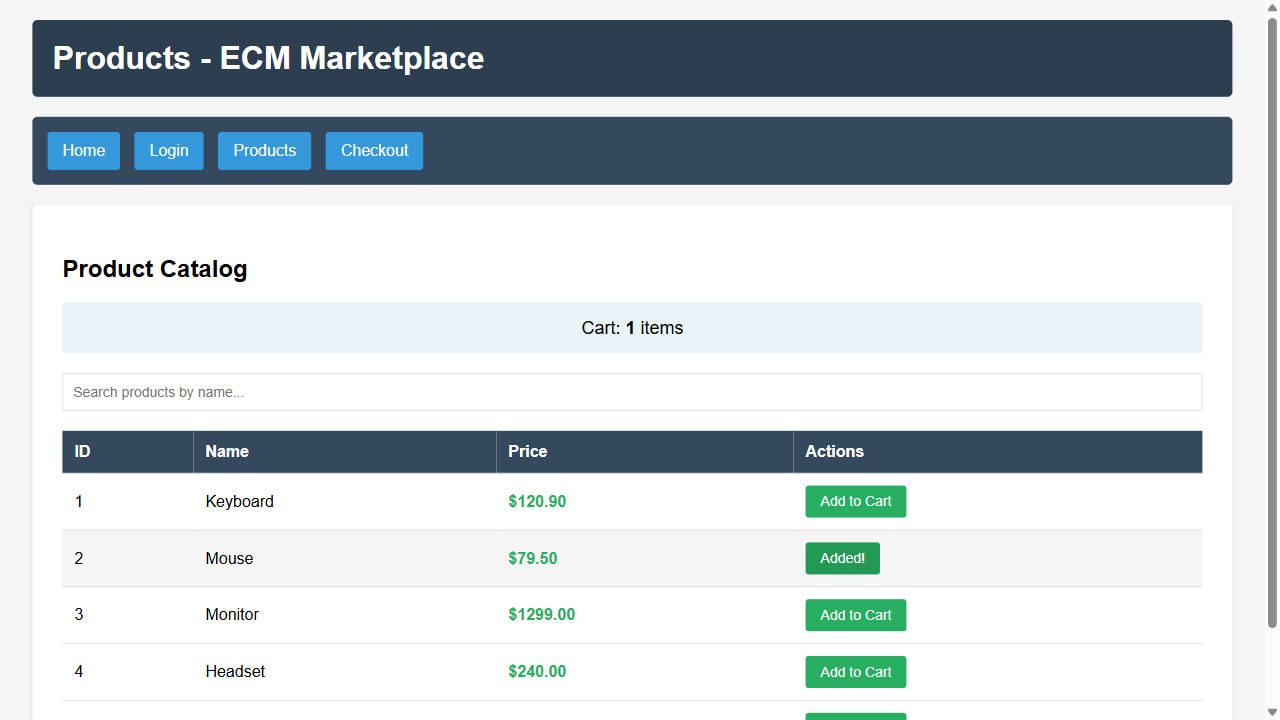
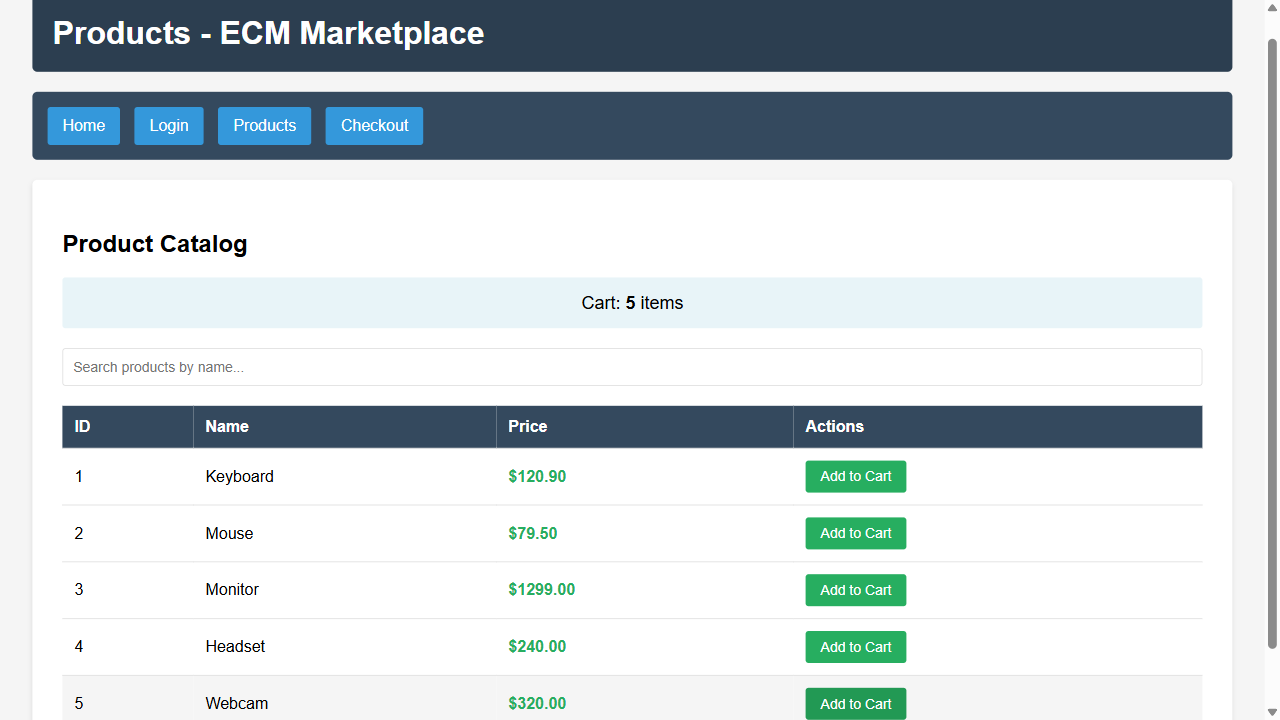
validacao dos produtos

diff --git a/playwright-report/index.html b/playwright-report/index.html
@@ -87,4 +87,4 @@ Error generating stack: `+l.message+`
     <div id='root'></div>
   </body>
 </html>
[2 lines of base64/hex data omitted]

diff --git a/tests/FrontEnd/products.spec.ts b/tests/FrontEnd/products.spec.ts
@@ -35,13 +35,102 @@ test.describe.parallel('Products', () => {
     test('products adicionar produto no carrinho', async ({ page }) => {
         const navigationPage = new NavegationPage(page);
         await navigationPage.productsPage();
-        const adicionar = await page.locator('[data-id="2"]').isDisabled();
-        if (adicionar === true) {
-            console.log('O botão de adicionar ao carrinho está desabilitado, verifique os campos de preenchimento');
+
+        let idProduto = [];
+        let nomeProduto = [];
+        let precoProduto = [];
+        let id = 0;
+        let ids = [1, 2, 3, 4, 5];
+        let cartCount = 0;
+
+
+
+        for (let i = 0; i < ids.length; i++) {
+            id = ids[i];
+
+            if (id === 1){
+                let statusbotao = await page.locator(`[data-id="${id}"]`).isDisabled();
+                if (statusbotao === true) {
+                    console.log('O botão de adicionar ao carrinho está desabilitado, verifique os campos de preenchimento');
+                }
+            }
+            else if (id === 2){
+                let statusbotao = await page.locator(`[data-id="${id}"]`).isDisabled();
+                if (statusbotao === true) {
+                    console.log('O botão de adicionar ao carrinho está desabilitado, verifique os campos de preenchimento');
+                }
+                
+            }
+            else if (id === 3){
+                let statusbotao = await page.locator(`[data-id="${id}"]`).isDisabled();
+                if (statusbotao === true) {
+                    console.log('O botão de adicionar ao carrinho está desabilitado, verifique os campos de preenchimento');
+                }
+            }
+            else if (id === 4){
+                let statusbotao = await page.locator(`[data-id="${id}"]`).isDisabled();
+                if (statusbotao === true) {
+                    console.log('O botão de adicionar ao carrinho está desabilitado, verifique os campos de preenchimento');
+                }
+            }
+            else if (id === 5){
+                let statusbotao = await page.locator(`[data-id="${id}"]`).isDisabled();
+                if (statusbotao === true) {
+                    console.log('O botão de adicionar ao carrinho está desabilitado, verifique os campos de preenchimento');
+                }
+            }
+
+            switch (id) {
+                case 1:
+                    await page.click(`[data-id="${id}"]`);
+                    idProduto.push(id);
+                    nomeProduto.push('Keyboard');
+                    precoProduto.push(120.90);
+                    cartCount = 1;
+                    break;
+
+                case 2:
+                    await page.click(`[data-id="${id}"]`);
+                    idProduto.push(id);
+                    nomeProduto.push('Mouse');
+                    precoProduto.push(79.50);
+                    cartCount = 1;    
+                    break;
+
+                case 3:
+                    await page.click(`[data-id="${id}"]`);
+                    idProduto.push(id);
+                    nomeProduto.push('Monitor');
+                    precoProduto.push(1299.00);
+                    break; 
+
+                case 4:
+                    await page.click(`[data-id="${id}"]`);
+                    idProduto.push(id);
+                    nomeProduto.push('Headset');
+                    precoProduto.push(240.00);
+                    cartCount = 1;
+                    break;
+
+                case 5:
+                    await page.click(`[data-id="${id}"]`);
+                    idProduto.push(id);
+                    nomeProduto.push('Webcam');
+                    precoProduto.push(320.00);
+                    cartCount = 1;
+                    break;
+
+                default:
+                    console.log('Id do produto não encontrado, verifique o id do produto');
+            }
         }
-        else {
-            await page.click('[data-id="2"]');
+
+        console.log('Todos os botões estão ativados \n');
+
+        for (let i = 0; i < idProduto.length; i++) {
+            console.log(`Produto adicionado ao carrinho: ID: ${idProduto[i]}, Nome: ${nomeProduto[i]}, Preço: R$${precoProduto[i]}, Quantidade: ${cartCount}`);
         }
+        console.log('\n O valor do cart é:', await page.locator('#cart-count').textContent());
         await page.screenshot({path: "Evidencias/Products/AdicionarProdutoCart.png"});
     });
 

diff --git a/playwright.config.ts b/playwright.config.ts
@@ -14,7 +14,7 @@ import { defineConfig, devices } from '@playwright/test';
 export default defineConfig({
  
   retries: 1,
-  reporter: [['json', 'html'], ['junit', {outputFile: 'results.xml'}]],
+  reporter: [['html'], ['junit', {outputFile: 'results.xml'}]],
   
   globalTimeout: 600,
   fullyParallel: true,
